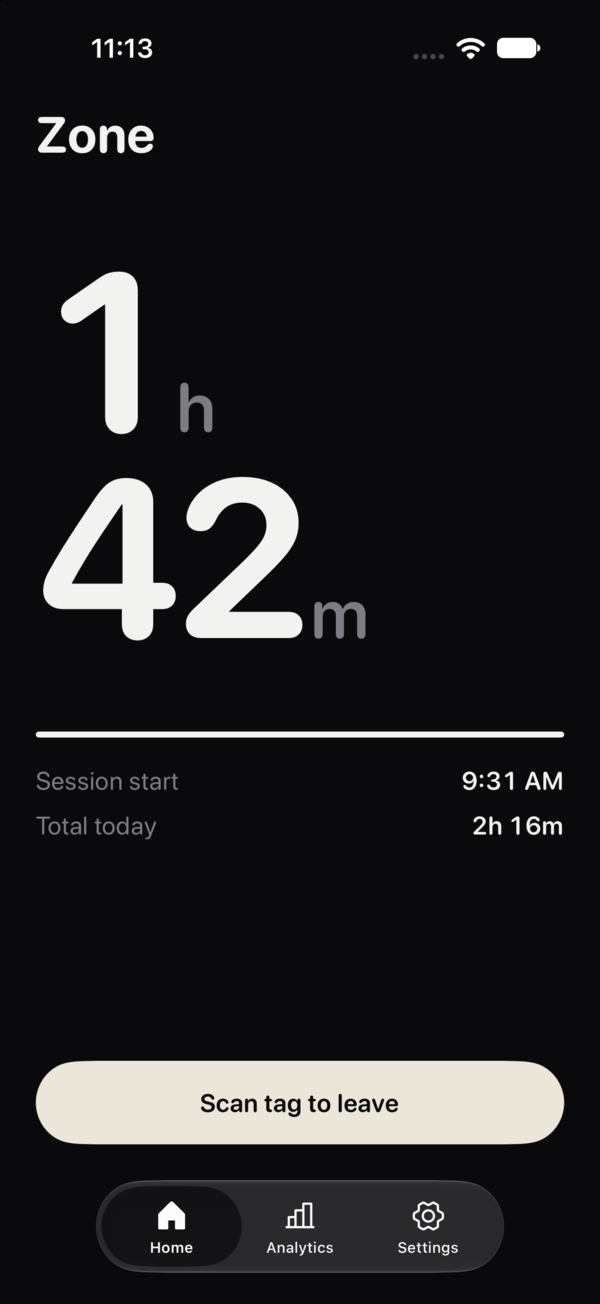
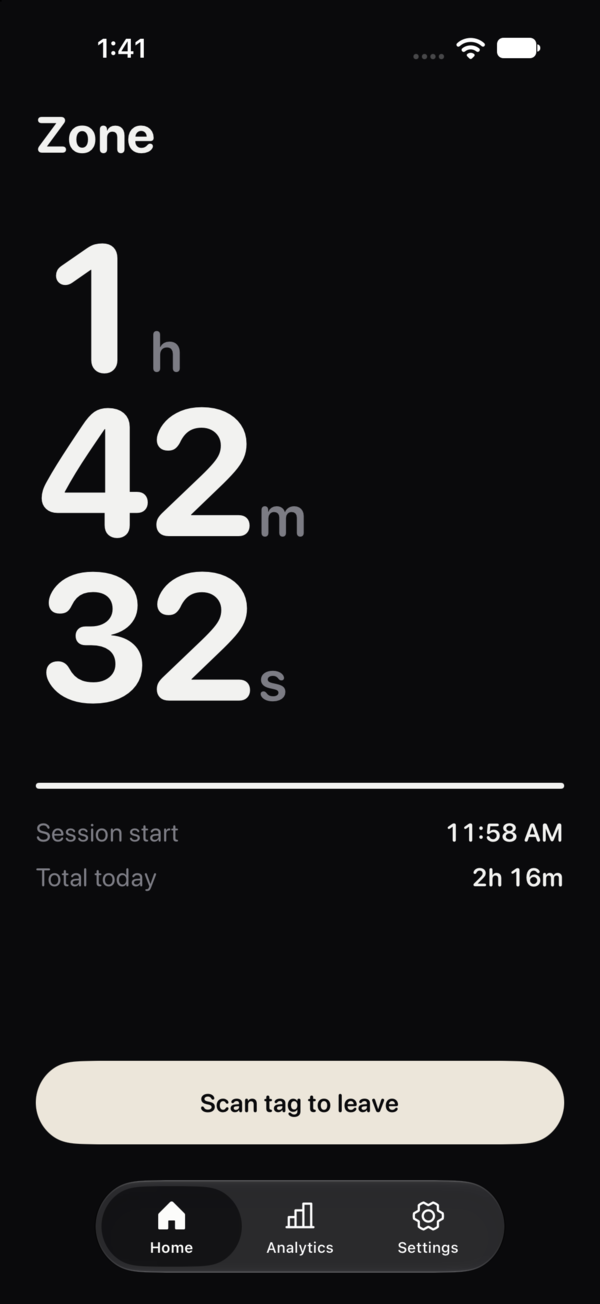
Add install and update steps, retake README screenshots

Changed region(s): [[0.06, 0.184, 0.96, 0.7055], [0.15, 0.0307, 0.27, 0.0613]]

diff --git a/README.md b/README.md
@@ -16,13 +16,50 @@ Zone is an app blocker for iPhone. Tap a button to enter the Zone, and the apps 
 - Super Zone locks again some minutes after you leave, also when the app is closed.
 - Analytics shows your time in the Zone for each day of the month and for the last 7 days. Tap a day to see its total.
 
-## Build
+## Install
 
-Zone needs Xcode, XcodeGen and a paid Apple developer account (Screen Time and NFC need it).
+### TestFlight (coming soon)
+
+The TestFlight link comes here soon.
+
+1. Install [TestFlight](https://apps.apple.com/app/testflight/id899247664) from the App Store.
+2. Open the Zone TestFlight link on your iPhone and tap Install.
+
+Updates: TestFlight installs new versions for you. If it does not, open TestFlight and tap Update.
+
+### Build from source
+
+You need a Mac with Xcode, [XcodeGen](https://github.com/yonaskolb/XcodeGen) (`brew install xcodegen`) and a paid Apple developer account. A free Apple ID cannot use Screen Time controls.
+
+1. Get the code:
+
+   ```sh
+   git clone https://github.com/nethum529/zone.git
+   cd zone
+   ```
+
+2. Use your own team ID and bundle ID prefix. Find your team ID in the [developer account](https://developer.apple.com/account) under Membership details.
+
+   ```sh
+   sed -i '' 's/NYKPX446L9/YOUR_TEAM_ID/; s/com\.nethum/com.yourname/g' project.yml Shared/ZoneLock.swift
+   ```
+
+3. Make the project and open it:
+
+   ```sh
+   xcodegen generate
+   open Zone.xcodeproj
+   ```
+
+4. Connect your iPhone, select it at the top of Xcode, and press Run (Cmd+R).
+
+Updates:
 
 ```sh
+git pull --autostash
 xcodegen generate
-open Zone.xcodeproj
 ```
+
+Then press Run in Xcode again. Your Zone data stays on the phone.
 
 Icons are from [Phosphor](https://phosphoricons.com) (MIT).
